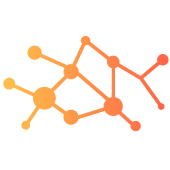
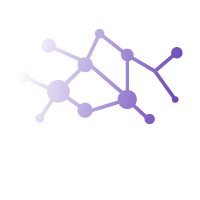
recursive division

Changed region(s): [[0.0, 0.1471, 1.0, 0.7941]]

diff --git a/src/core/graphlib/algorithms/MazeAlgorithmsImpl.ts b/src/core/graphlib/algorithms/MazeAlgorithmsImpl.ts
@@ -1,4 +1,5 @@
 import { Graph } from "../datastructures/Graph";
+import Random from "./Random";
 
 export class MazeAlgorithmsImpl {
     static buildBorder(graph:Graph, col:number, row:number, source:number, destination:number) {
@@ -22,9 +23,42 @@ export class MazeAlgorithmsImpl {
 
     }
 
+    static recursiveDivision(graph:Graph, colStart:number, rowStart:number, colEnd:number, rowEnd:number) {
+        if((rowEnd>rowStart+1) && (colEnd>colStart+1)) {
+            if((rowEnd-rowStart) < (colEnd-colStart)) {
+                let divider = Random.generateEvenRandomNumber(colStart, colEnd)
+                for(let i = rowStart; i<=rowEnd; i++) {
+                    let current = graph.getId(i, divider)
+                    graph.setWall(current)
+                }
+
+                let openRow = Random.generatedOddRandomNumber(rowStart, rowEnd)
+                let openNode = graph.getId(openRow, divider)
+                graph.resetWall(openNode)
+
+                MazeAlgorithmsImpl.recursiveDivision(graph, colStart, rowStart, divider-1, rowEnd)
+                MazeAlgorithmsImpl.recursiveDivision(graph, divider+1, rowStart, colEnd, rowEnd)
+            } else {
+                let divider = Random.generateEvenRandomNumber(rowStart, rowEnd)
+                for(let i = colStart; i<=colEnd; i++) {
+                    let current = graph.getId(divider, i)
+                    graph.setWall(current)
+                }
+
+                let openCol = Random.generatedOddRandomNumber(colStart, colEnd)
+                let openNode = graph.getId(divider, openCol)
+                graph.resetWall(openNode)
+
+                MazeAlgorithmsImpl.recursiveDivision(graph, colStart, rowStart, colEnd, divider-1)
+                MazeAlgorithmsImpl.recursiveDivision(graph, colStart, divider+1, colEnd, rowEnd)
+            }
+        }
+    }
+
     static recursiveDivisionMaze(graph: Graph, col:number, row:number, source:number, destination:number) {
         graph.inProgress = true
         MazeAlgorithmsImpl.buildBorder(graph, col, row, source, destination)
+        MazeAlgorithmsImpl.recursiveDivision(graph, 1, 1, graph.colLen-2, graph.rowLen-2)
         graph.inProgress = false
     }
 }

diff --git a/src/app/pathfinder/board/node.directive.ts b/src/app/pathfinder/board/node.directive.ts
@@ -1,4 +1,5 @@
 import { Directive, ElementRef, Host, HostListener, QueryList, ViewChildren } from '@angular/core';
+import { ColorNode } from 'src/core/animate/ColorNode';
 import { Graph } from 'src/core/graphlib/datastructures/Graph';
 import { GraphNode } from 'src/core/graphlib/datastructures/GraphNode';
 import { GraphUndirectedEdge } from 'src/core/graphlib/datastructures/GraphUndirectedEdge';
@@ -14,8 +15,10 @@ export class NodeDirective {
   static source: number
   static destination: number
   static graph:Graph = new Graph(new Array<GraphNode>(), new Array<GraphUndirectedEdge>(), null, null)
+  static colorNode:ColorNode = new ColorNode()
   graphNode: GraphNode
   color: String
+
 
 
 
@@ -28,6 +31,7 @@ export class NodeDirective {
   ngAfterViewInit() {
     this.graphNode.id = this.el.nativeElement.id
     NodeDirective.graph.nodes.push(this.graphNode)
+    
   }
 
 
@@ -37,12 +41,15 @@ export class NodeDirective {
 
     NodeDirective.isClicked = true
     this.graphNode.isWall = !this.graphNode.isWall
-    this.getBackGroundColor()
+
+    NodeDirective.colorNode.setColor(this.graphNode, this.el)
   }
 
   @HostListener('mouseup')
   mouseUpHandler() {
     NodeDirective.isClicked = false
+
+    NodeDirective.colorNode.setColor(this.graphNode, this.el)
   }
 
   @HostListener('mouseenter')
@@ -51,21 +58,13 @@ export class NodeDirective {
     if(NodeDirective.isClicked) {
       this.graphNode.isWall = !this.graphNode.isWall
     }
-    this.getBackGroundColor()
+
+    NodeDirective.colorNode.setColor(this.graphNode, this.el)
   }
 
-  getBackGroundColor() {
-    if(this.graphNode.isWall == true) {
-      this.el.nativeElement.style.backgroundColor = '#543e33'
-      this.el.nativeElement.style.borderColor = '#543e33'
-    } else if(this.graphNode.isWeighted == true) 
-      this.el.nativeElement.style.backgroundColor = 'grey'
-    else if(this.graphNode.visited == true) 
-      this.el.nativeElement.style.backgroundColor = 'yellow'
-    else{
-      this.el.nativeElement.style.backgroundColor = ''
-      this.el.nativeElement.style.borderColor = '#f5dec6'
-    }
+  @HostListener('mouseleave')
+  mouseLeaveHandler() {
+    
   }
 
 

diff --git a/src/core/graphlib/datastructures/Graph.ts b/src/core/graphlib/datastructures/Graph.ts
@@ -5,6 +5,8 @@ import { ColorNode } from "src/core/animate/ColorNode"
 
 export class Graph {
     inProgress:boolean
+    colLen: number
+    rowLen: number
     nodes: Array<GraphNode>
     edges: GraphUndirectedEdge[]
     visitedNodes: GraphNode[]
@@ -22,6 +24,8 @@ export class Graph {
         this.visitedNodes = new Array<GraphNode>()
         this.inProgress = false
         this.wallNodes = new Array()
+        this.colLen = 0
+        this.rowLen = 0
     }
 
     setWall(i: number) {
@@ -29,10 +33,21 @@ export class Graph {
         this.wallNodes.push(this.nodes[i])
     }
 
+    resetWall(i: number) {
+        this.nodes[i].isWall = false
+    }
+
     reset(color:ColorNode) {
         for(let i = 0; i<this.nodes.length; i++) {
             this.nodes[i].reset();
             color.setColor(this.nodes[i], this.nodes[i].el)
         }
+        this.wallNodes = new Array()
+        this.visitedNodes = new Array()
+        this.pathNodes = new Array()
+    }
+
+    getId(row: number, col: number) {
+        return row*this.colLen+col
     }
 }

diff --git a/src/core/graphlib/algorithms/Random.ts b/src/core/graphlib/algorithms/Random.ts
@@ -1,0 +1,35 @@
+class Random{
+    static generateRandomNumber(lowerLimit:number, upperLimit:number): number{
+        return Math.floor((Math.random()*(upperLimit-lowerLimit+2))+lowerLimit);
+    }
+
+    static generateTrueOrFalse(): boolean{
+        let num = this.generateRandomNumber(1, 100);
+
+        if(num%2 == 0) return true
+        else return false;
+    }
+
+
+    static generatedOddRandomNumber(lowerLimit:number, upperLimit:number): number{
+        let random = Math.floor((Math.random()*(upperLimit-lowerLimit+2))+lowerLimit);
+        if(random%2 === 0)
+            return random-1;
+
+        return random;
+    }
+
+    static generateEvenRandomNumber(lowerLimit:number, upperLimit:number): number{
+        let random = Math.floor((Math.random()*(upperLimit-lowerLimit+1))+lowerLimit);
+        if(random%2 !== 0){
+            if(random !== upperLimit)
+                return random+1;
+            else
+                return random-1;
+        }
+        return random;
+    }
+}
+
+
+export default Random;

diff --git a/src/app/toolbar/toolbar.component.ts b/src/app/toolbar/toolbar.component.ts
@@ -23,6 +23,7 @@ export class ToolbarComponent {
   constructor(private store: Store<{menuOption: {algorithms: string[], mazePattern: string[]}}>) {
     this.selectedApplication = "Select an Application"
     this.colorNode = new ColorNode()
+    NodeDirective.colorNode = this.colorNode
     store.pipe(select('menuOption')).subscribe(data => {
       this.algorithmMenu = data.algorithms
       this.mazeMenu = data.mazePattern
@@ -45,6 +46,7 @@ export class ToolbarComponent {
   async mazeAlgorithm(event: MouseEvent) {
     const element = event.target as HTMLButtonElement;
     NodeDirective.isProcessing = true
+    NodeDirective.graph.reset(this.colorNode)
     if(element.innerText === `Recursive division`) {
       MazeAlgorithmsImpl.recursiveDivisionMaze(NodeDirective.graph, NodeDirective.col, NodeDirective.row, NodeDirective.source, NodeDirective.destination);
       for(let i = 0; i< NodeDirective.graph.wallNodes.length; i++) {

diff --git a/src/core/animate/ColorNode.ts b/src/core/animate/ColorNode.ts
@@ -2,11 +2,13 @@ import { ElementRef } from "@angular/core";
 import { GraphNode } from "../graphlib/datastructures/GraphNode";
 
 export class ColorNode {
+
+    // #6b44bc
     speed: number = 24;
     defaultColor: string = ``;
-    defaultBorderColor: string = `#f5dec6`;
-    wallColor: string = "#543e33";
-    wallBorderColor: string = `#543e33`;
+    defaultBorderColor: string = `#d8d1e8`;
+    wallColor: string = "#36235e";
+    wallBorderColor: string = `#36235e`;
     visitedColor: string = "#96daeb";
     pathColor: string = "#f5da7a";
 

diff --git a/src/app/pathfinder/board/board.component.ts b/src/app/pathfinder/board/board.component.ts
@@ -29,6 +29,8 @@ export class BoardComponent {
   ngAfterViewInit() {
     NodeDirective.row = this.rows.length
     NodeDirective.col = this.columns.length
+    NodeDirective.graph.colLen = this.columns.length
+    NodeDirective.graph.rowLen = this.rows.length
   }
 
   ngOnInit() {

diff --git a/src/app/pathfinder/board/board.component.css b/src/app/pathfinder/board/board.component.css
@@ -25,7 +25,7 @@ th, td{
     font-size: 14px;
     font-family: Arial, Helvetica, sans-serif;
     font-weight: bold;
-    border: 0.5px solid #f5dec6;
+    border: 0.5px solid #d8d1e8;
     height: 24px;
     width: 24px;
 }
